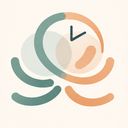
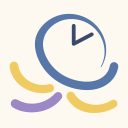
Add files via upload

diff --git a/carte.css b/carte.css
@@ -1,78 +1,89 @@
-/* MOVIA — identité : vert profond, vert sauge, terracotta, ivoire. */
+/* MOVIA — charte V3 (13/11/2026) : bleu nuit, bleu ardoise, jaune paille, lavande, ivoire. Polices Quicksand et Nunito Sans (OFL). */
 :root {
-  --vert: #1F4A3D; --sauge: #8FA98F; --terracotta: #C8734F; --ivoire: #F7F3EA;
-  --texte: #23302B; --doux: #5F6B66; --trait: #DCD6C8; --fond: #FFFFFF;
+  --nuit: #3B4A6B; --nuit-survol: #2E3A55; --ardoise: #5677A8; --lien: #46679A; --paille: #EFCB62; --lavande: #9C88C6;
+  --ivoire: #FDF8F0; --carte: #FFFFFF; --trait: #E6E1D8; --champ: #CFC8BA;
+  --texte: #2E3A55; --doux: #5B6478;
+  /* états : teinte / texte / bordure */
+  --valider-fond: #FBF1D0; --valider-texte: #6B5310; --valider-trait: #EFCB62;
+  --conflit-fond: #F7E3E0; --conflit-texte: #8A3B30; --conflit-trait: #D98C82;
+  --info-fond: #EEE9F7; --info-texte: #5A4889; --info-trait: #9C88C6;
+  --titre: "Quicksand", "Nunito Sans", "Segoe UI", sans-serif;
 }
 * { box-sizing: border-box; }
 html, body { margin: 0; padding: 0; background: var(--ivoire); color: var(--texte);
-  font-family: "Segoe UI", "Segoe UI Web (West European)", -apple-system, Roboto, "Helvetica Neue", sans-serif; font-size: 13px; }
-button, select, input { font-family: inherit; font-size: 13px; color: var(--texte); }
+  font-family: "Nunito Sans", "Segoe UI", "Segoe UI Web (West European)", -apple-system, Roboto, "Helvetica Neue", sans-serif; font-size: 14px; }
+button, select, input { font-family: inherit; font-size: 14px; color: var(--texte); }
 
-.bandeau { display: flex; align-items: center; gap: 10px; padding: 10px 12px; background: var(--vert); color: var(--ivoire); }
-.bandeau img { border-radius: 6px; background: var(--ivoire); }
-.bandeau-titre { font-size: 15px; font-weight: 600; }
-.bandeau-sous { font-size: 11px; opacity: .85; }
+.bandeau { display: flex; align-items: center; gap: 10px; padding: 10px 12px; background: var(--nuit); color: #FFFFFF; }
+.bandeau img { display: block; flex: none; }
+.bandeau-titre { font-family: var(--titre); font-size: 16px; font-weight: 700; }
+.bandeau-sous { font-size: 13px; color: #E6E1D8; }
 
 .commandes { padding: 10px 12px 6px; display: grid; gap: 8px; }
-.champ { display: grid; gap: 3px; font-size: 11px; color: var(--doux); }
-select, input[type=date] { height: 30px; border: 1px solid var(--trait); border-radius: 6px; background: var(--fond); padding: 0 6px; }
+.champ { display: grid; gap: 3px; font-size: 13px; font-weight: 600; color: var(--doux); }
+select, input[type=date] { height: 34px; border: 1px solid var(--champ); border-radius: 10px; background: var(--carte); padding: 0 8px; }
+select:focus, input[type=date]:focus { border-color: var(--ardoise); }
 .jour { display: flex; gap: 4px; align-items: center; }
 .jour input { flex: 1; min-width: 0; }
-.jour-libelle { font-weight: 600; color: var(--vert); }
+.jour-libelle { font-family: var(--titre); font-weight: 700; color: var(--nuit); }
 .actions { display: flex; gap: 6px; }
-.btn, .btn-icone { height: 30px; border: 1px solid var(--trait); border-radius: 6px; background: var(--fond); cursor: pointer; }
-.btn { padding: 0 10px; flex: 1; }
-.btn-icone { width: 30px; font-size: 16px; line-height: 1; }
-.btn:hover, .btn-icone:hover { border-color: var(--sauge); background: #F1F4EE; }
-.btn:focus-visible, .btn-icone:focus-visible, select:focus-visible, input:focus-visible, .lien:focus-visible { outline: 2px solid var(--terracotta); outline-offset: 1px; }
-.lien { border: 0; background: none; color: var(--vert); text-decoration: underline; cursor: pointer; padding: 0; }
+.btn, .btn-icone { height: 34px; border: 1px solid var(--champ); border-radius: 10px; background: var(--carte); cursor: pointer; }
+.btn { padding: 0 10px; flex: 1; font-weight: 700; }
+.btn-icone { width: 34px; font-size: 17px; line-height: 1; }
+.btn:hover, .btn-icone:hover { border-color: var(--ardoise); background: #E4EAF4; }
+.btn:focus-visible, .btn-icone:focus-visible, select:focus-visible, input:focus-visible, .lien:focus-visible { outline: 2px solid var(--ardoise); outline-offset: 1px; }
+.lien { border: 0; background: none; color: var(--lien); text-decoration: underline; cursor: pointer; padding: 0; font-weight: 600; }
 
-.message { margin: 0 12px 8px; padding: 8px 10px; border-radius: 6px; background: #FBEDE6; color: #7A3A20; border: 1px solid #EBC3B0; }
-.message.info { background: #EEF3EC; color: var(--vert); border-color: #CFDCCB; }
+.message { margin: 0 12px 8px; padding: 8px 10px; border-radius: 10px; background: var(--conflit-fond); color: var(--conflit-texte); border: 1px solid var(--conflit-trait); }
+.message.info { background: var(--info-fond); color: var(--info-texte); border-color: var(--info-trait); }
 
-.carte { height: 52vh; min-height: 260px; margin: 0 12px; border: 1px solid var(--trait); border-radius: 8px; background: #E9EEE4; }
+.carte { height: 52vh; min-height: 260px; margin: 0 12px; border: 1px solid var(--trait); border-radius: 12px; background: #E4EAF4; }
 
 .synthese { padding: 10px 12px 4px; }
-.total { font-size: 13px; color: var(--doux); margin-bottom: 8px; }
-.total #total { font-size: 20px; font-weight: 600; color: var(--texte); }
-.legende-entete { display: flex; justify-content: space-between; align-items: center; font-weight: 600; margin-bottom: 4px; }
+.total { color: var(--doux); margin-bottom: 8px; }
+.total #total { font-family: var(--titre); font-size: 22px; font-weight: 700; color: var(--lien); }
+.legende-entete { display: flex; justify-content: space-between; align-items: center; font-family: var(--titre); font-weight: 700; color: var(--nuit); margin-bottom: 4px; }
 .legende { list-style: none; margin: 0; padding: 0; display: grid; gap: 4px; }
-.legende li label { display: grid; grid-template-columns: 16px 12px 1fr; gap: 6px; align-items: start; padding: 5px 6px; border-radius: 6px; background: var(--fond); border: 1px solid var(--trait); cursor: pointer; }
-.legende .pastille { margin-top: 3px; }
-.legende .nom { font-weight: 600; }
-.legende .agents { color: var(--doux); font-size: 12px; }
+.legende li label { display: grid; grid-template-columns: 16px 12px 1fr; gap: 6px; align-items: start; padding: 6px 8px; border-radius: 10px; background: var(--carte); border: 1px solid var(--trait); cursor: pointer; }
+.legende .pastille { margin-top: 4px; }
+.legende .nom { font-weight: 700; }
+.legende .agents { color: var(--doux); }
 .legende li.masquee label { opacity: .55; }
 
-.pastille { display: inline-block; width: 10px; height: 10px; border-radius: 50%; flex: none; }
+.pastille { display: inline-block; width: 11px; height: 11px; border-radius: 50%; flex: none; }
 
-.hors { margin: 8px 12px 0; padding: 8px 10px; background: var(--fond); border: 1px solid #EBC3B0; border-radius: 8px; }
-.hors-titre { font-weight: 600; color: var(--terracotta); margin-bottom: 4px; }
+/* Hors carte : style « à valider » de la charte */
+.hors { margin: 8px 12px 0; padding: 8px 10px; background: #FFFCF2; border: 1px solid var(--valider-trait); border-radius: 12px; }
+.hors-titre { font-family: var(--titre); font-weight: 700; color: var(--valider-texte); margin-bottom: 4px; }
 .hors-liste { list-style: none; margin: 0; padding: 0; display: grid; gap: 4px; }
-.hors-liste li { font-size: 12px; }
-.hors-liste .ref { font-weight: 600; }
+.hors-liste .ref { font-weight: 700; }
 .hors-liste .detail { color: var(--doux); }
 
-.pied { padding: 10px 12px 14px; font-size: 11px; color: var(--doux); }
+.pied { padding: 10px 12px 14px; font-size: 12px; color: var(--doux); }
 
 /* Repères */
 .repere { position: relative; }
 .repere svg { display: block; }
-.repere .badge { position: absolute; top: -6px; right: -8px; min-width: 18px; height: 18px; padding: 0 4px; border-radius: 9px; background: var(--ivoire);
-  border: 1.5px solid var(--vert); color: var(--vert); font-size: 11px; font-weight: 700; line-height: 15px; text-align: center; }
-.groupe { width: 34px; height: 34px; border-radius: 50%; background: var(--ivoire); border: 3px solid var(--vert); color: var(--vert);
-  display: flex; align-items: center; justify-content: center; font-weight: 700; font-size: 13px; }
-.agence-repere { width: 20px; height: 20px; border-radius: 4px; background: var(--ivoire); border: 2px solid var(--vert); color: var(--vert);
-  font-weight: 700; font-size: 11px; display: flex; align-items: center; justify-content: center; }
+.repere .badge { position: absolute; top: -7px; right: -9px; min-width: 19px; height: 19px; padding: 0 4px; border-radius: 10px; background: #FFFFFF;
+  border: 2px solid var(--nuit); color: var(--nuit); font-size: 12px; font-weight: 700; line-height: 15px; text-align: center; }
+.groupe { width: 34px; height: 34px; border-radius: 50%; background: #FFFFFF; border: 3px solid var(--nuit); color: var(--nuit);
+  display: flex; align-items: center; justify-content: center; font-weight: 700; font-size: 14px; }
+.agence-repere { width: 22px; height: 22px; border-radius: 5px; background: #FFFFFF; border: 2px solid var(--nuit); color: var(--nuit);
+  font-weight: 700; font-size: 12px; display: flex; align-items: center; justify-content: center; }
 .leaflet-div-icon { background: transparent; border: 0; }
 
 /* Fiche d'intervention */
-.leaflet-popup-content { margin: 10px 12px; font-size: 12px; }
-.fiche-client { font-weight: 700; font-size: 13px; color: var(--vert); }
+.leaflet-popup-content { margin: 10px 12px; font-family: "Nunito Sans", "Segoe UI", sans-serif; font-size: 13px; color: var(--texte); }
+.fiche-client { font-family: var(--titre); font-weight: 700; font-size: 14px; color: var(--nuit); }
 .fiche-adresse { color: var(--doux); margin-bottom: 4px; }
-.fiche-alerte { color: var(--terracotta); font-weight: 600; margin-bottom: 4px; }
-.fiche-nb { font-size: 11px; color: var(--doux); margin-bottom: 4px; }
+.fiche-alerte { color: var(--valider-texte); background: var(--valider-fond); border-radius: 6px; padding: 1px 6px; font-weight: 700; margin-bottom: 4px; display: inline-block; }
+.fiche-nb { color: var(--doux); margin-bottom: 4px; }
 .fiche-int { border-top: 1px solid var(--trait); padding-top: 6px; margin-top: 6px; }
-.fiche-ref { font-weight: 600; display: flex; align-items: center; gap: 6px; margin-bottom: 3px; }
+.fiche-ref { font-weight: 700; display: flex; align-items: center; gap: 6px; margin-bottom: 3px; }
 .fiche table { border-collapse: collapse; }
 .fiche th { text-align: left; font-weight: 400; color: var(--doux); padding: 1px 8px 1px 0; vertical-align: top; }
 .fiche td { padding: 1px 0; }
+
+/* Page d'aide */
+.aide main { max-width: 680px; margin: 0 auto; padding: 16px; line-height: 1.55; }
+.aide h2 { font-family: var(--titre); color: var(--nuit); font-size: 18px; margin-top: 20px; }

diff --git a/carte-logique.js b/carte-logique.js
@@ -2,7 +2,7 @@
  * MOVIA — Carte des interventions — logique pure (aucun accès à Excel ni à la carte).
  * Lit le contenu de la table « Carte » écrite par le script MOVIA (module M26) et prépare ce que le volet affiche :
  * journée, interventions par lieu, équipes, légende, interventions hors carte, fiche d'intervention.
- * Ce fichier sera réutilisé tel quel dans MOVIA Windows. Version 1.0.0 (O5.1b).
+ * Ce fichier sera réutilisé tel quel dans MOVIA Windows. Version 1.1.0 (O5.2 : couleur par défaut de la charte V3).
  */
 (function (racine, fabrique) {
   if (typeof module === "object" && module.exports) module.exports = fabrique();
@@ -10,7 +10,7 @@
 }(typeof self !== "undefined" ? self : this, function () {
   "use strict";
 
-  var VERSION = "1.0.0";
+  var VERSION = "1.1.0";
   var JOURS = ["dimanche", "lundi", "mardi", "mercredi", "jeudi", "vendredi", "samedi"];
   var ORIGINE = Date.UTC(1899, 11, 30);   // numéro de série Excel 0
   var JOUR_MS = 86400000;
@@ -79,7 +79,7 @@
     carte.concat(hors).forEach(function (l) {
       var n = nombre(l.NumeroEquipe);
       if (n === undefined) return;
-      if (!equipes[n]) { equipes[n] = { numero: n, libelle: texte(l.Equipe) || ("Équipe " + n), couleur: texte(l.CouleurEquipe) || "#1F4A3D", agents: texte(l.Agents), interventions: 0, horsCarte: 0 }; liste.push(equipes[n]); }
+      if (!equipes[n]) { equipes[n] = { numero: n, libelle: texte(l.Equipe) || ("Équipe " + n), couleur: texte(l.CouleurEquipe) || "#3B4A6B", agents: texte(l.Agents), interventions: 0, horsCarte: 0 }; liste.push(equipes[n]); }
       if (estSurCarte(l)) equipes[n].interventions++; else equipes[n].horsCarte++;
     });
     liste.sort(function (a, b) { return a.numero - b.numero; });
@@ -99,7 +99,7 @@
       parCle[cle].interventions.push(l);
       if (n !== undefined && parCle[cle].equipes.indexOf(n) < 0) parCle[cle].equipes.push(n);
     });
-    res.forEach(function (x) { x.equipes.sort(function (a, b) { return a - b; }); x.couleur = texte(x.interventions[0].CouleurEquipe) || "#1F4A3D"; });
+    res.forEach(function (x) { x.equipes.sort(function (a, b) { return a - b; }); x.couleur = texte(x.interventions[0].CouleurEquipe) || "#3B4A6B"; });
     return res;
   }
 
@@ -142,7 +142,7 @@
       var chantier = texte(l.JourChantier) ? " · chantier " + echapper(l.JourChantier) : "";
       var effectif = texte(l.Effectif) + (texte(l.EffectifRequis) && texte(l.EffectifRequis) !== texte(l.Effectif) ? " (requis : " + echapper(l.EffectifRequis) + ")" : "");
       h += '<div class="fiche-int">'
-        + '<div class="fiche-ref"><span class="pastille" style="background:' + echapper(l.CouleurEquipe || "#1F4A3D") + '"></span>'
+        + '<div class="fiche-ref"><span class="pastille" style="background:' + echapper(l.CouleurEquipe || "#3B4A6B") + '"></span>'
         + echapper(l.IdIntervention) + " — " + echapper(l.Prestation || l.PrestationID) + "</div>"
         + "<table>"
         + "<tr><th>Date</th><td>" + echapper(jourLong(nombre(l.Date))) + chantier + "</td></tr>"

diff --git a/aide.html b/aide.html
@@ -4,11 +4,13 @@
   <meta charset="utf-8">
   <meta name="viewport" content="width=device-width, initial-scale=1">
   <title>MOVIA — Carte des interventions : aide</title>
+  <link rel="preconnect" href="https://fonts.googleapis.com">
+  <link rel="stylesheet" href="https://fonts.googleapis.com/css2?family=Quicksand:wght@600;700&amp;family=Nunito+Sans:wght@400;600;700&amp;display=swap">
   <link rel="stylesheet" href="carte.css">
-  <style>main { max-width: 680px; margin: 0 auto; padding: 16px; line-height: 1.55; } h2 { color: var(--vert); font-size: 16px; margin-top: 20px; }</style>
+  <link rel="icon" href="icon-32.png">
 </head>
-<body>
-  <header class="bandeau"><img src="icon-32.png" alt="" width="24" height="24"><div><div class="bandeau-titre">MOVIA — Carte des interventions</div><div class="bandeau-sous">Vos équipes organisées automatiquement. Gagnez du temps. Optimisez vos déplacements. Réduisez vos coûts.</div></div></header>
+<body class="aide">
+  <header class="bandeau"><img src="logo-clair.svg" alt="" width="42" height="39"><div><div class="bandeau-titre">MOVIA — Carte des interventions</div><div class="bandeau-sous">L’intelligence qui organise vos déplacements</div></div></header>
   <main>
     <h2>Ouvrir la carte</h2>
     <p>Dans Excel, onglet <b>Accueil</b>, groupe <b>MOVIA</b> : bouton <b>Carte des interventions</b>. La carte s'ouvre à droite du classeur.</p>
@@ -19,7 +21,7 @@
     <p>La carte lit la table « Carte », que le script MOVIA réécrit à chaque « Générer le planning » ou « Appliquer mes modifications ». Elle se met à jour seule quand c'est possible ; sinon, bouton <b>Actualiser</b>.</p>
     <h2>Ce que la carte ne fait pas</h2>
     <p>Elle ne calcule ni itinéraire ni trajet, et ne modifie jamais le classeur : c'est un outil de consultation. Les horaires et les équipes se changent dans l'onglet Modifications.</p>
-    <p class="pied">Fond de carte © contributeurs OpenStreetMap. Positions : coordonnées saisies dans la table Clients.</p>
+    <p class="pied">Fond de carte © contributeurs OpenStreetMap. Positions : coordonnées saisies dans la table Clients.<br>Vos équipes organisées automatiquement. Gagnez du temps. Optimisez vos déplacements. Réduisez vos coûts.</p>
   </main>
 </body>
 </html>

diff --git a/carte-app.js b/carte-app.js
@@ -10,7 +10,7 @@
   var etat = { alerteCarte: "", lignes: [], agences: [], agenceAccueil: "", agence: "", date: 0, visibles: {}, lieux: [], carte: null, couche: null, coucheAgence: null, minuterie: null };
   var $ = function (id) { return document.getElementById(id); };
   var COULEUR = /^#[0-9A-Fa-f]{6}$/;
-  function couleurSure(c, defaut) { return COULEUR.test(String(c || "")) ? c : (defaut || "#1F4A3D"); }
+  function couleurSure(c, defaut) { return COULEUR.test(String(c || "")) ? c : (defaut || "#3B4A6B"); }   // O5.2 : bleu nuit (charte V3)
 
   function message(texte, info) {
     var m = $("message");
@@ -90,10 +90,10 @@
 
   function iconeRepere(lieu) {
     var c1 = couleurSure(lieu.couleur), n = lieu.interventions.length;
-    var autres = lieu.equipes.length > 1;   // plusieurs équipes au même endroit : centre ivoire cerclé de terracotta
+    var autres = lieu.equipes.length > 1;   // plusieurs équipes au même endroit : centre blanc cerclé de bleu nuit (charte V3)
     var svg = '<svg width="26" height="36" viewBox="0 0 26 36" aria-hidden="true">'
-      + '<path d="M13 35C13 35 2 21.5 2 13a11 11 0 0 1 22 0c0 8.5-11 22-11 22z" fill="' + c1 + '" stroke="#F7F3EA" stroke-width="2"/>'
-      + '<circle cx="13" cy="13" r="4.6" fill="#F7F3EA"' + (autres ? ' stroke="#C8734F" stroke-width="2.2"' : "") + "/></svg>";
+      + '<path d="M13 35C13 35 2 21.5 2 13a11 11 0 0 1 22 0c0 8.5-11 22-11 22z" fill="' + c1 + '" stroke="#FFFFFF" stroke-width="2"/>'
+      + '<circle cx="13" cy="13" r="4.6" fill="#FFFFFF"' + (autres ? ' stroke="#3B4A6B" stroke-width="2.4"' : "") + "/></svg>";
     return L.divIcon({ className: "", html: '<div class="repere">' + svg + (n > 1 ? '<span class="badge">' + n + "</span>" : "") + "</div>",
       iconSize: [26, 36], iconAnchor: [13, 35], popupAnchor: [0, -32] });
   }

diff --git a/taskpane.html b/taskpane.html
@@ -7,11 +7,13 @@
   <script src="https://appsforoffice.microsoft.com/lib/1/hosted/office.js"></script>
   <link rel="stylesheet" href="https://unpkg.com/leaflet@1.9.4/dist/leaflet.css" crossorigin="">
   <script src="https://unpkg.com/leaflet@1.9.4/dist/leaflet.js" crossorigin=""></script>
+  <link rel="preconnect" href="https://fonts.googleapis.com">
+  <link rel="stylesheet" href="https://fonts.googleapis.com/css2?family=Quicksand:wght@600;700&amp;family=Nunito+Sans:wght@400;600;700&amp;display=swap">
   <link rel="stylesheet" href="carte.css">
 </head>
 <body>
   <header class="bandeau">
-    <img src="icon-32.png" alt="" width="24" height="24">
+    <img src="logo-clair.svg" alt="" width="34" height="31">
     <div>
       <div class="bandeau-titre">Carte des interventions</div>
       <div class="bandeau-sous">MOVIA · planning publié</div>
